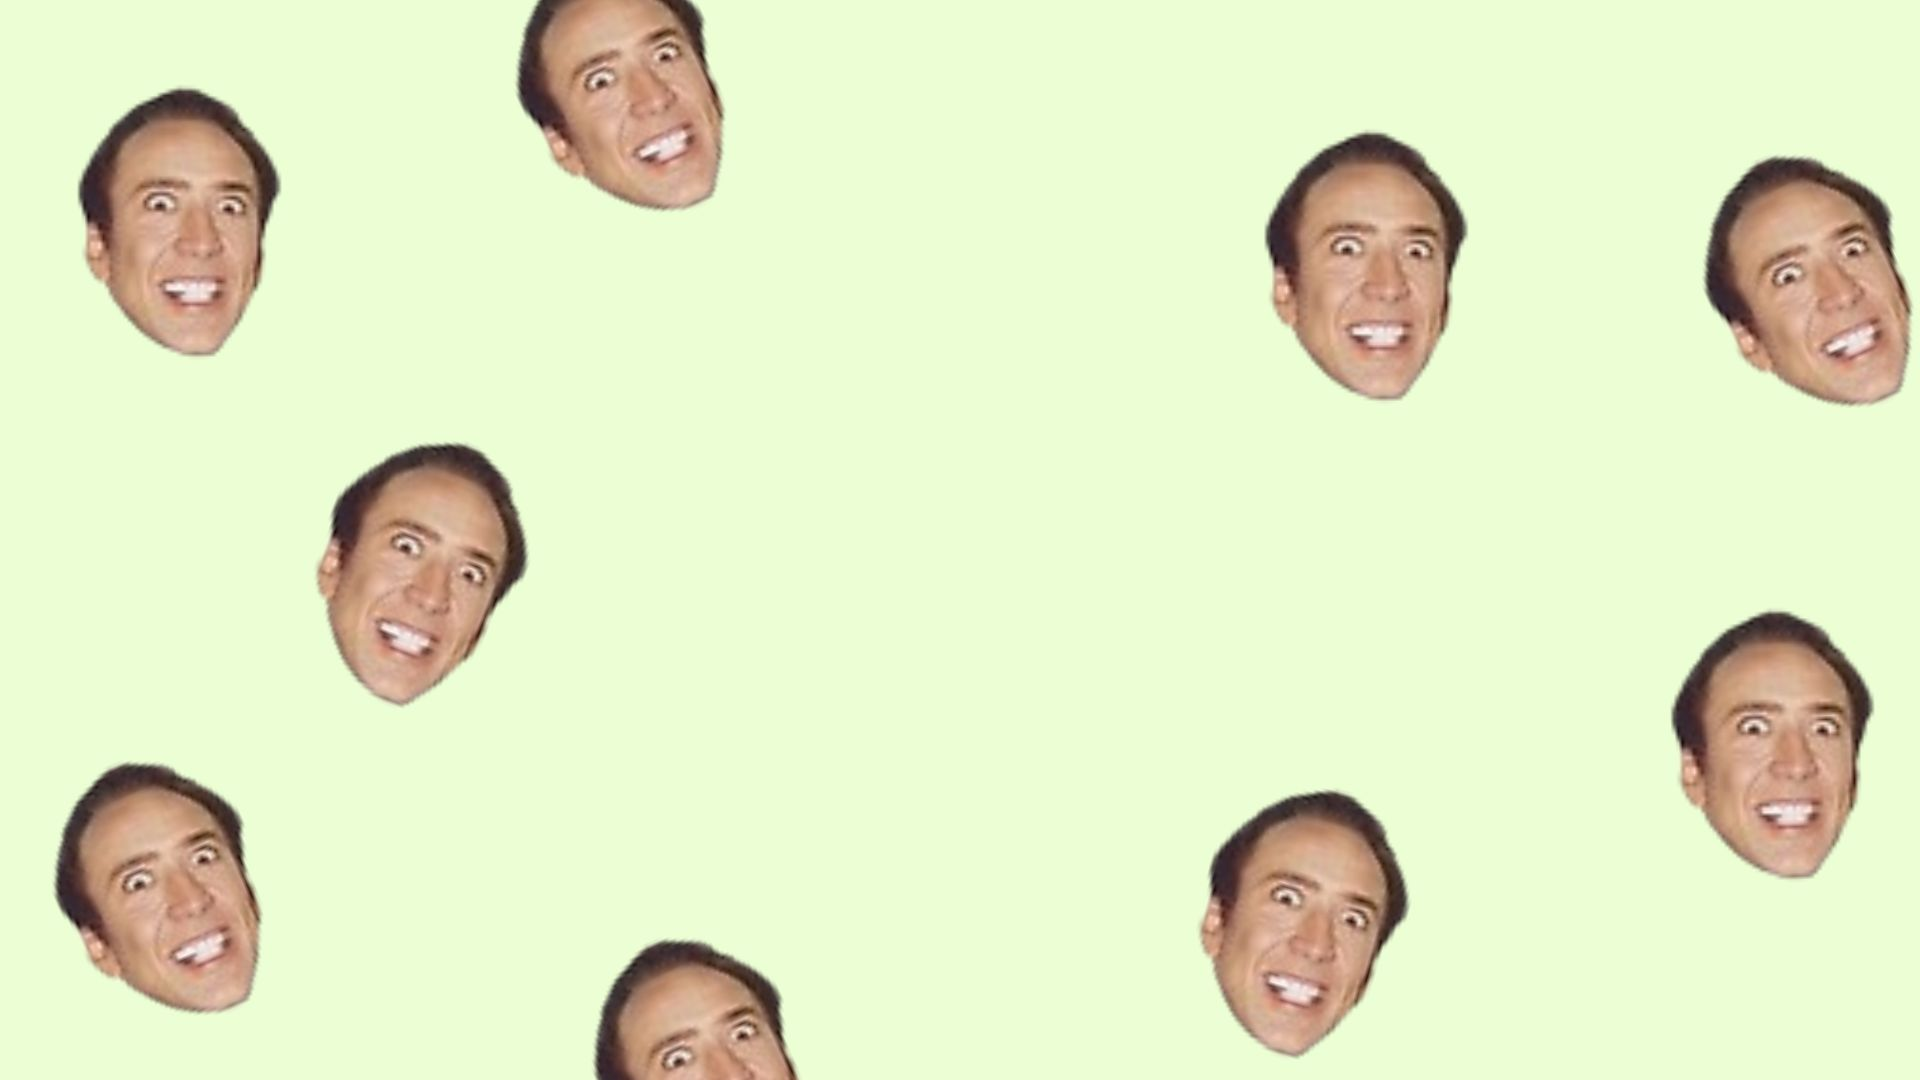
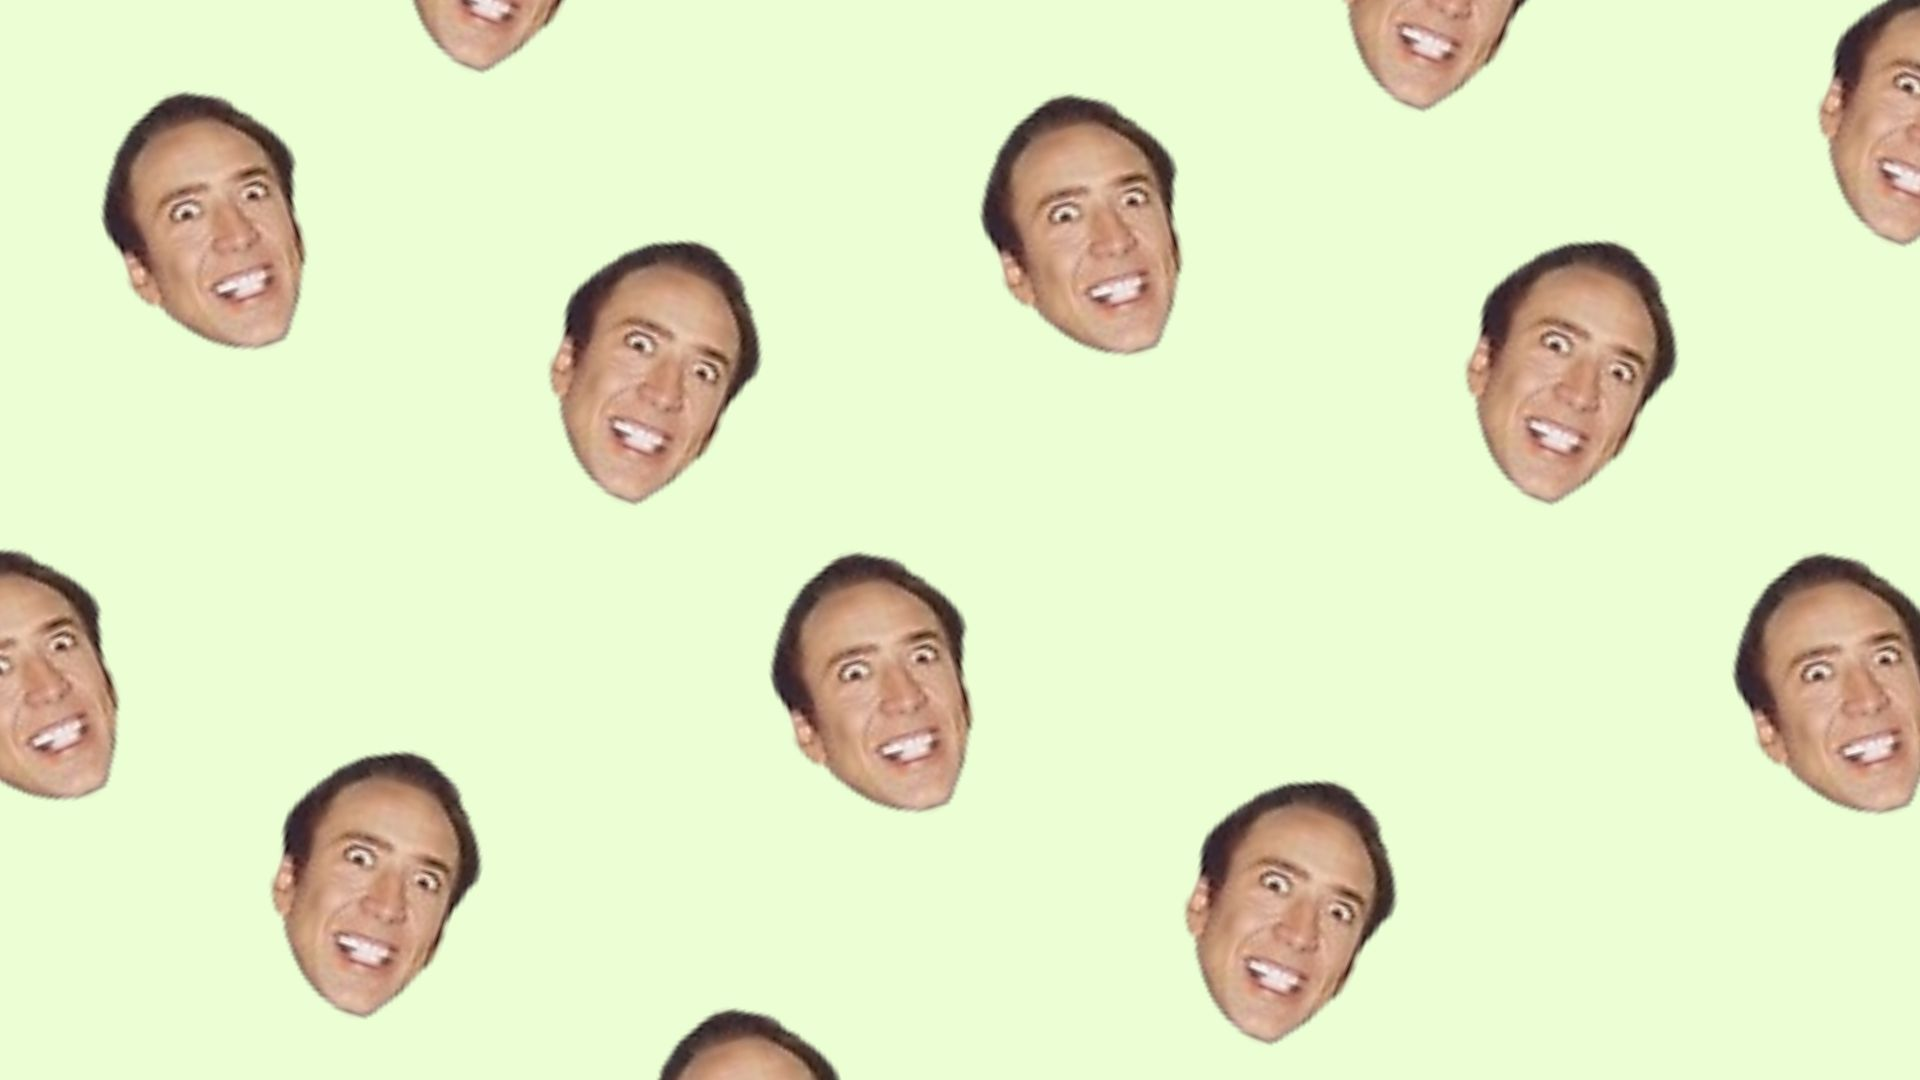
update

diff --git a/js/scripts.js b/js/scripts.js
@@ -4,8 +4,8 @@ toggle.addEventListener("change", function() {
   if (this.checked) {
     
     document.body.style.backgroundColor = "";
-    document.body.style.backgroundImage = "url('../assets/nc.jpg";
-    document.body.style.backgroundSize = "cover";
+    document.body.style.backgroundImage = "url('assets/nc.jpg')";
+    document.body.style.backgroundSize = "cover"
     document.body.style.backgroundRepeat = "no-repeat";
     document.body.style.backgroundPosition = "center";
   } else {
